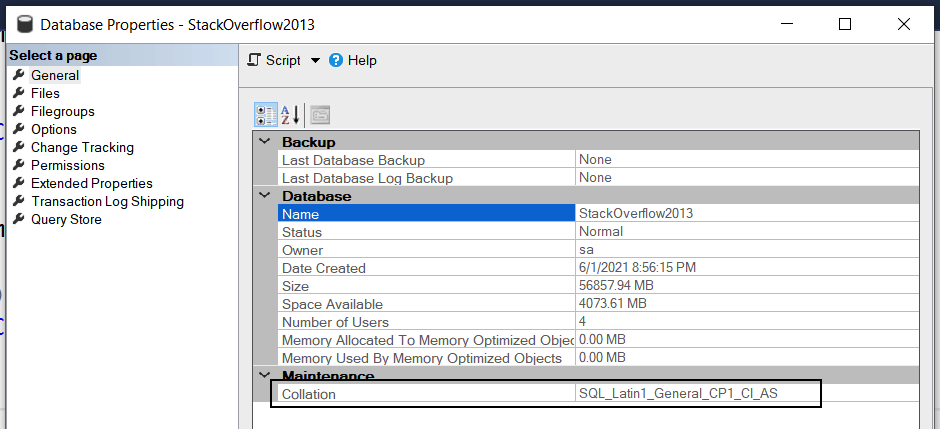
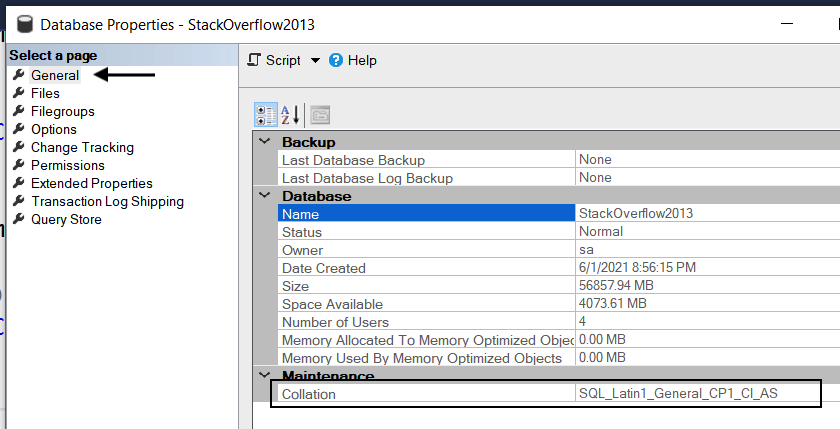
Update case-sensitive post

diff --git a/_posts/2022-02-21-CaseSensitiveSearchSQLServer.md b/_posts/2022-02-21-CaseSensitiveSearchSQLServer.md
@@ -18,17 +18,18 @@ Often by mistake, to do a case-sensitive search, we wrap a column around `LOWER(
 SELECT TOP 50 DisplayName, Location, CreationDate, Reputation
 FROM dbo.Users
 WHERE LOWER(DisplayName) LIKE 'john%'
+--    ^^^^^
 ORDER BY Reputation DESC;
 GO
 ```
 
 We tried to find the first 50 StackOverflow users with DisplayName containing lowercase 'john'.
 
-But, interestingly enough. Some results don't match our intended filter. They include both lowercase and uppercase 'john'.
+But, interestingly enough, some results don't match our intended filter. They include both lowercase and uppercase 'john'.
 
 {% include image.html name="LikeWithLower.png" alt="Result of finding users by wrapping a column with LOWER" caption="Naive case insensitive search using LOWER" width="600px" %}
 
-Don't try to use `UPPER()` either. It would be the same. In general, [don't use functions around columns in your WHEREs]({% post_url 2022-01-24-DontPutFunctionsInYourWheres %}). That's a common bad practice.
+It would be the same if we use `UPPER()` instead. In general, [let's not use functions around columns in our WHEREs]({% post_url 2022-01-24-DontPutFunctionsInYourWheres %}). That's a common bad practice.
 
 <figure>
 <img src="https://images.unsplash.com/photo-1597742200037-aa4d64d843be?crop=entropy&cs=tinysrgb&fit=crop&fm=jpg&h=400&ixid=MnwxfDB8MXxhbGx8fHx8fHx8fHwxNjI0ODU2MzAz&ixlib=rb-1.2.1&q=80&utm_campaign=api-credit&utm_medium=referral&utm_source=unsplash_source&w=600" alt="scrabble pieces" />
@@ -40,11 +41,11 @@ Don't try to use `UPPER()` either. It would be the same. In general, [don't use 
 
 In SQL Server, collations provide sorting rules and case and accent sensitivity for our data. For example, when we use an ORDER BY, the sort order of our results depends on the database collation.
 
-Find the database collation on the Database Properties option under the Maintenance menu.
+In SQL Server Management Studio, we find a database collation after clicking on the database Properties and then on General. It's under the Maintenance section.
 
 Here's mine.
 
-{% include image.html name="DatabaseProperties.png" alt="SQL Server database properties" caption="SQL Server database properties" width="600px" %}
+{% include image.html name="DatabaseProperties.png" alt="SQL Server database properties" caption="SQL Server database properties" width="800px" %}
 
 **The default collation for English is SQL_Latin1_General_CP1_CI_AS. This is a case-insensitive collation.**
 
